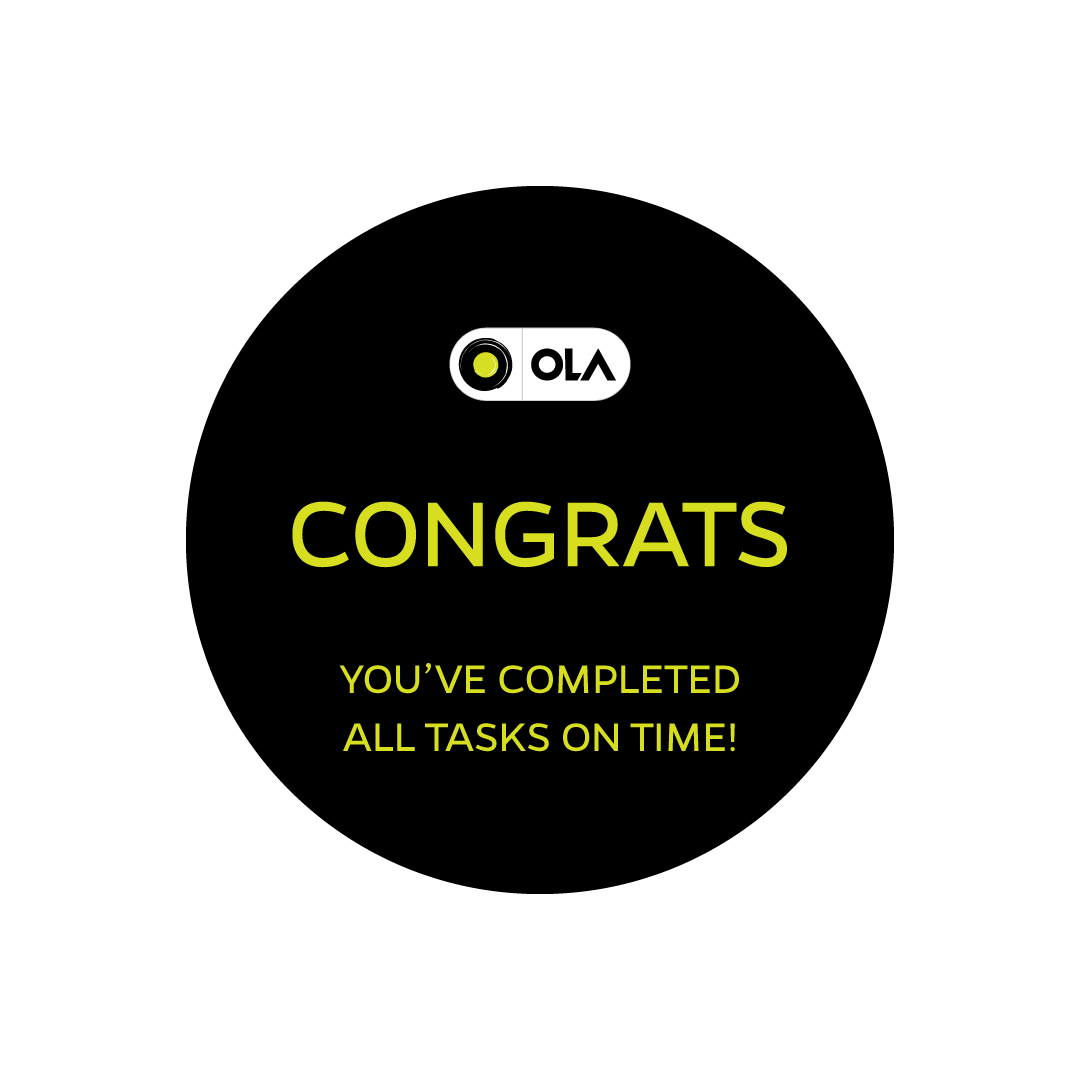
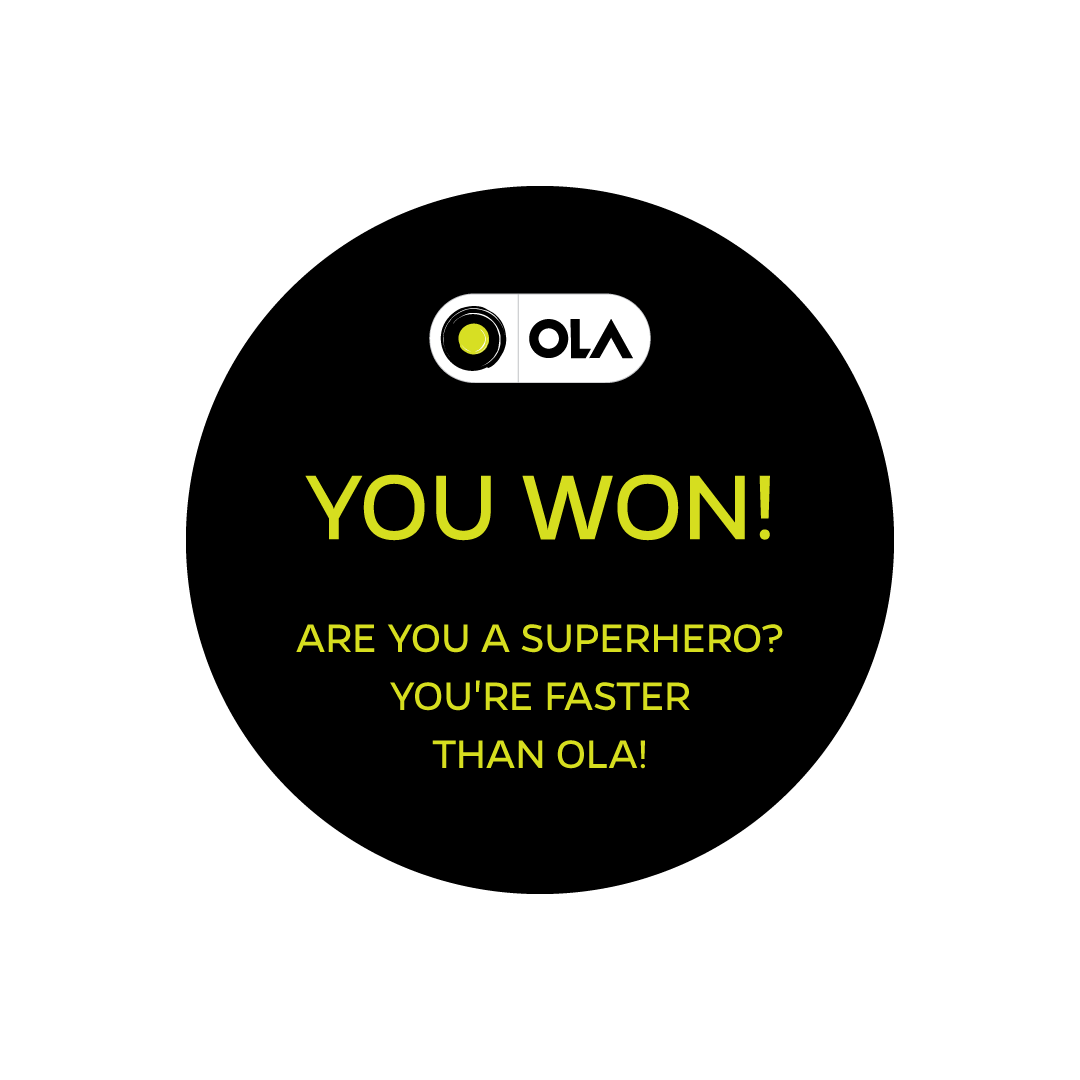
added new designs

Changed region(s): [[0.275, 0.5806, 0.7333, 0.7333], [0.275, 0.4278, 0.7333, 0.55], [0.3972, 0.2444, 0.6111, 0.3972]]

diff --git a/games/olaAuckland/src/scenes/Game.js b/games/olaAuckland/src/scenes/Game.js
@@ -77,15 +77,22 @@ export default class Game extends Phaser.Scene {
         Align.scaleToGameW(this.walletGlow, 0.12)
         this.logo = this.add.image(0, 0, "logo")
         Align.scaleToGameW(this.logo, 0.207)
+        this.cab = this.add.image(0, 0, "cab").setOrigin(0, 1)
+        Align.scaleToGameW(this.cab, 0.1)
+        this.locationPin = this.add.image(0, 0, "locationPin").setOrigin(0.5, 1)
+        Align.scaleToGameW(this.locationPin, 0.035)
 
         this.tapSound = this.sound.add('tapSound')
 
+        // this.graphics = this.add.graphics()
+        // this.graphics1 = this.add.graphics()
+        // this.graphics2 = this.add.graphics()
+        // this.progressBar = this.graphics
+        // this.progressBox = this.graphics1
+        // this.progressIndicator = this.graphics2
+
         this.graphics = this.add.graphics()
-        this.graphics1 = this.add.graphics()
-        this.graphics2 = this.add.graphics()
-        this.progressBar = this.graphics
-        this.progressBox = this.graphics1
-        this.progressIndicator = this.graphics2
+        this.timeLine = this.graphics
 
         // this.aGrid = new AlignGrid({scene:this, rows:16, cols:9})
         // this.aGrid.showNumbers()
@@ -169,13 +176,27 @@ export default class Game extends Phaser.Scene {
         this.logo.x = this.bgWidth - this.bgWidth / 7.2
         this.logo.y = (this.bgHeight / 13.2) + ((this.height - this.bgHeight) / 2)
 
-        // progress bar
-        this.progressBarHeight = this.bgHeight / 20 // (this.logo.scaleY * this.logo.height) / 1.3 
-        this.progressBarY =  (this.bgHeight / 18) + ((this.height - this.bgHeight) / 2) // this.logo.y - ((this.logo.scaleY * this.logo.height) / 2) 
-        this.progressBox.lineStyle(2, 0x000000, 1)
-        this.progressBox.strokeRect(this.scale.width/20, this.progressBarY, this.scale.width/1.75, this.progressBarHeight);
+        // cab
+        this.cab.x = this.scale.width / 25
+        this.cab.y = (this.bgHeight / 10) + ((this.height - this.bgHeight) / 2)
 
-        this.countdown = new CountdownController(this, this.progressIndicator, this.progressBar, this.progressBarHeight, this.progressBarY)
+        // locationPin
+        this.locationPin.x = this.scale.width/1.88
+        this.locationPin.y = (this.bgHeight / 10) + ((this.height - this.bgHeight) / 2)
+
+        // timeLine
+        this.timeLine.fillStyle(0x000000, 1)
+        this.timeLine.fillRect(this.scale.width / 25, (this.bgHeight / 10) + ((this.height - this.bgHeight) / 2), this.scale.width / 1.88 - this.scale.width / 35, 3)
+        // this.timeLine.fillRect(this.scale.width / 2, this.scale.height / 2, this.scale.width / 1.88, 5)
+
+        // progress bar
+        // this.progressBarHeight = this.bgHeight / 20 // (this.logo.scaleY * this.logo.height) / 1.3 
+        // this.progressBarY =  (this.bgHeight / 18) + ((this.height - this.bgHeight) / 2) // this.logo.y - ((this.logo.scaleY * this.logo.height) / 2) 
+        // this.progressBox.lineStyle(2, 0x000000, 1)
+        // this.progressBox.strokeRect(this.scale.width/20, this.progressBarY, this.scale.width/1.75, this.progressBarHeight);
+
+        // this.countdown = new CountdownController(this, this.progressIndicator, this.progressBar, this.progressBarHeight, this.progressBarY)
+        this.countdown = new CountdownController(this, this.cab)
         this.countdown.start(this.handleCountdownFinished.bind(this))
 
         this.flagArr = [true, true, true, true, true, true, true, true, true, true]

diff --git a/games/olaAuckland/src/scenes/CountdownController.js b/games/olaAuckland/src/scenes/CountdownController.js
@@ -3,18 +3,21 @@ export default class CountdownController
     scene
     timerEvent
     duration
-    progressIndicator
-    progressBar
-    progressBarHeight
-    progressBarY
+    // progressIndicator
+    // progressBar
+    // progressBarHeight
+    // progressBarY
+    cab
 
-    constructor(scene, progressIndicator, progressBar, progressBarHeight, progressBarY)
+    // constructor(scene, progressIndicator, progressBar, progressBarHeight, progressBarY)
+    constructor(scene, cab)
     {
         this.scene = scene
-        this.progressIndicator = progressIndicator
-        this.progressBar = progressBar
-        this.progressBarHeight = progressBarHeight
-        this.progressBarY = progressBarY
+        // this.progressIndicator = progressIndicator
+        // this.progressBar = progressBar
+        // this.progressBarHeight = progressBarHeight
+        // this.progressBarY = progressBarY
+        this.cab = cab
     }
 
     start(callback, duration = 10000)
@@ -59,8 +62,9 @@ export default class CountdownController
         const seconds = remaining / 1000
         const passedSeconds = elapsed / 1000
 
-        this.progressBar.clear();
-        this.progressIndicator.clear();
+        // this.progressBar.clear();
+        // this.progressIndicator.clear();
+
         // if(passedSeconds.toFixed(0) == 1)
         // {
         //     this.progressBar.fillStyle(0xD7DE1F, 1) // EB0303
@@ -68,16 +72,20 @@ export default class CountdownController
         // }
         // else if(passedSeconds.toFixed(0) > 1)
         // {
-            this.progressBar.fillStyle(0xD7DE1F, 1)
-            this.progressBar.fillRect(this.scene.width/20, this.progressBarY, this.scene.width/1.75 * (passedSeconds.toFixed(0)/10), this.progressBarHeight)
 
-            if(passedSeconds.toFixed(0) != 10)
-            {
-                this.progressIndicator.fillStyle(0x000000, 1)
-                this.progressIndicator.fillRect(this.scene.width/20 + this.scene.width/1.75 * (passedSeconds.toFixed(0)/10), this.progressBarY, 10 , this.progressBarHeight)
+            // this.progressBar.fillStyle(0xD7DE1F, 1)
+            // this.progressBar.fillRect(this.scene.width/20, this.progressBarY, this.scene.width/1.75 * (passedSeconds.toFixed(0)/10), this.progressBarHeight)
 
-            }
+            // if(passedSeconds.toFixed(0) != 10)
+            // {
+            //     // this.progressIndicator.fillStyle(0x000000, 1)
+            //     // this.progressIndicator.fillRect(this.scene.width/20 + this.scene.width/1.75 * (passedSeconds.toFixed(0)/10), this.progressBarY, 10 , this.progressBarHeight)
+                
+            // }
+
         // }
+
+        this.cab.x = this.scene.width/25 + (((this.scene.width / 1.88) - (this.cab.scale * this.cab.width + this.scene.width/25)) * (elapsed/10000))
         
     }
 }

diff --git a/games/olaAuckland/src/scenes/SplashScreen.js b/games/olaAuckland/src/scenes/SplashScreen.js
@@ -26,12 +26,12 @@ export default class SplashScreen extends Phaser.Scene
         this.splashImage = this.add.image(this.scale.width/2, this.scale.height/2, "openingMsg")
         Align.scaleToGameW(this.splashImage, 1)
 
-        this.TTPblack = this.add.image(this.scale.width/2, this.scale.height/2, "TTPblack")
-        Align.scaleToGameW(this.TTPblack, 1)
+        this.TTSblack = this.add.image(this.scale.width/2, this.scale.height/2, "TTSblack")
+        Align.scaleToGameW(this.TTSblack, 1)
 
-        this.TTPgreen = this.add.image(this.scale.width/2, this.scale.height/2, "TTPgreen")
-        Align.scaleToGameW(this.TTPgreen, 1)
-        this.TTPgreen.setVisible(false)
+        this.TTSgreen = this.add.image(this.scale.width/2, this.scale.height/2, "TTSgreen")
+        Align.scaleToGameW(this.TTSgreen, 1)
+        this.TTSgreen.setVisible(false)
 
         this.input.on('pointerup', function(pointer) {
             this.tapSound.play()
@@ -46,8 +46,8 @@ export default class SplashScreen extends Phaser.Scene
 
         if(this.count % 20 == 0)
         {
-            this.TTPblack.visible = !this.TTPblack.visible
-            this.TTPgreen.visible = !this.TTPgreen.visible
+            this.TTSblack.visible = !this.TTSblack.visible
+            this.TTSgreen.visible = !this.TTSgreen.visible
         }
     }
 

diff --git a/games/olaAuckland/src/scenes/WonScreen.js b/games/olaAuckland/src/scenes/WonScreen.js
@@ -25,7 +25,7 @@ export default class WonScreen extends Phaser.Scene
         this.bgHeight = this.background.scaleX * this.background.width
 
         this.controlBoard = this.add.graphics()
-        this.controlBoard.fillStyle(0xF2F2F2, 0.5)
+        this.controlBoard.fillStyle(0xF2F2F2, 0.7)
         this.controlBoard.fillRect(0, (this.height - this.bgHeight) / 2, this.bgWidth, this.bgHeight)
 
         // this.lines1 = this.add.image(this.scale.width/2, this.scale.height/2, "lines1")
@@ -43,10 +43,10 @@ export default class WonScreen extends Phaser.Scene
         // Align.scaleToGameW(this.wonMsg, 1)
 
         // logo
-        this.logo = this.add.image(0, 0, "logo")
-        Align.scaleToGameW(this.logo, 0.207)
-        this.logo.x = this.bgWidth - this.bgWidth / 7.2
-        this.logo.y = (this.bgHeight / 13.2) + ((this.height - this.bgHeight) / 2)
+        // this.logo = this.add.image(0, 0, "logo")
+        // Align.scaleToGameW(this.logo, 0.207)
+        // this.logo.x = this.bgWidth - this.bgWidth / 7.2
+        // this.logo.y = (this.bgHeight / 13.2) + ((this.height - this.bgHeight) / 2)
 
         this.congratsSound.play()
 

diff --git a/games/olaAuckland/src/scenes/SorryScene.js b/games/olaAuckland/src/scenes/SorryScene.js
@@ -28,7 +28,7 @@ export default class SorryScreen extends Phaser.Scene
         this.bgHeight = this.background.scaleX * this.background.width
 
         this.controlBoard = this.add.graphics()
-        this.controlBoard.fillStyle(0xF2F2F2, 0.5)
+        this.controlBoard.fillStyle(0xF2F2F2, 0.7)
         this.controlBoard.fillRect(0, (this.height - this.bgHeight) / 2, this.bgWidth, this.bgHeight)
 
         this.lines = this.add.image(this.scale.width/2, this.scale.height/2, "lines")
@@ -43,10 +43,10 @@ export default class SorryScreen extends Phaser.Scene
         this.tryagainGreen.setVisible(false)
 
         // logo
-        this.logo = this.add.image(0, 0, "logo")
-        Align.scaleToGameW(this.logo, 0.207)
-        this.logo.x = this.bgWidth - this.bgWidth / 7.2
-        this.logo.y = (this.bgHeight / 13.2) + ((this.height - this.bgHeight) / 2)
+        // this.logo = this.add.image(0, 0, "logo")
+        // Align.scaleToGameW(this.logo, 0.207)
+        // this.logo.x = this.bgWidth - this.bgWidth / 7.2
+        // this.logo.y = (this.bgHeight / 13.2) + ((this.height - this.bgHeight) / 2)
 
         this.tryAgainSound.play()
 

diff --git a/games/olaAuckland/src/scenes/Preload.js b/games/olaAuckland/src/scenes/Preload.js
@@ -40,12 +40,14 @@ export default class Preload extends Phaser.Scene{
         this.load.image('walletGlow', 'assets/WalletGlow.png')
         this.load.image('logo', 'assets/Logo.png')
         this.load.image('openingMsg', 'assets/openingMsg.png')
-        this.load.image('TTPblack', 'assets/TTPblack.png')
-        this.load.image('TTPgreen', 'assets/TTPgreen.png')
+        this.load.image('TTSblack', 'assets/TTSblack.png')
+        this.load.image('TTSgreen', 'assets/TTSgreen.png')
         this.load.image('sorryMsg', 'assets/sorryMsg.png')
         this.load.image('tryagainBlack', 'assets/tryagainBlack.png')
         this.load.image('tryagainGreen', 'assets/tryagainGreen.png')
         this.load.image('wonImage', 'assets/congrateMsg.png')
+        this.load.image('cab', 'assets/Cab-icon.png')
+        this.load.image('locationPin', 'assets/Location-icon.png')
         // this.load.image('wonMsg', 'assets/completedMsg.png')
         this.load.image('lines', 'assets/Lines.png')
         this.load.image('linesCongrate', 'assets/LinesCongrate.png')
